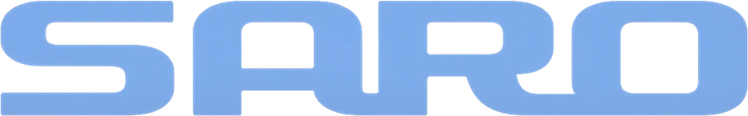
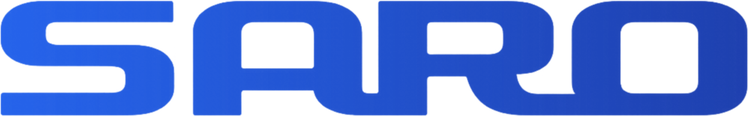
fix(hero): SARO del titulo en azul y mas chico + bloque del titulo mas arriba
- 'SARO' recoloreado al azul de marca (degrade saro-blue -> saro-mid), como el texto original
- Reducido el tamano del wordmark (0.6em)
- Bloque del titulo (eyebrow + frase) subido (top 8%/9%) para que la paleta no quede tapada

diff --git a/src/components/IntroHero.jsx b/src/components/IntroHero.jsx
@@ -175,7 +175,7 @@ export default function IntroHero({ productCount = 0, onExplore }) {
         </div>
 
         {/* Texto superior */}
-        <div className="absolute inset-x-0 top-[13%] sm:top-[15%] px-6 text-center z-20">
+        <div className="absolute inset-x-0 top-[8%] sm:top-[9%] px-6 text-center z-20">
           <div ref={t1Ref} className="will-change-[opacity,transform]">
             <p className="intro-rise intro-rise-1 text-[11px] sm:text-xs font-bold uppercase tracking-[.32em] text-saro-blue mb-3">
               Venta mayorista · Argentina
@@ -185,7 +185,7 @@ export default function IntroHero({ productCount = 0, onExplore }) {
               <img
                 src="/assets/saro-wordmark.png"
                 alt="SARO"
-                className="inline-block h-[0.72em] w-auto align-baseline"
+                className="inline-block h-[0.6em] w-auto align-baseline"
               />
             </p>
           </div>
